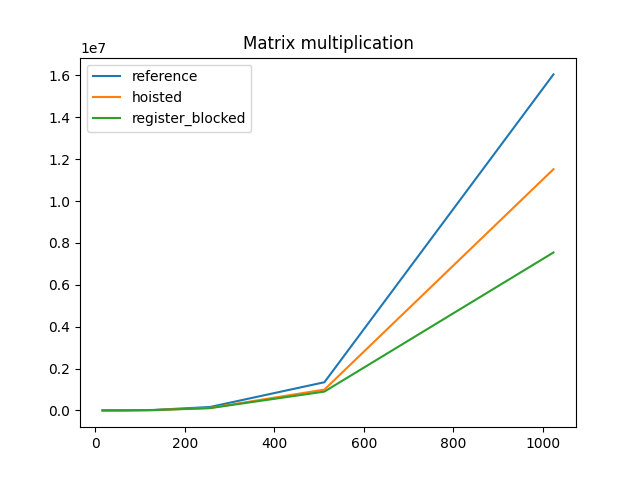
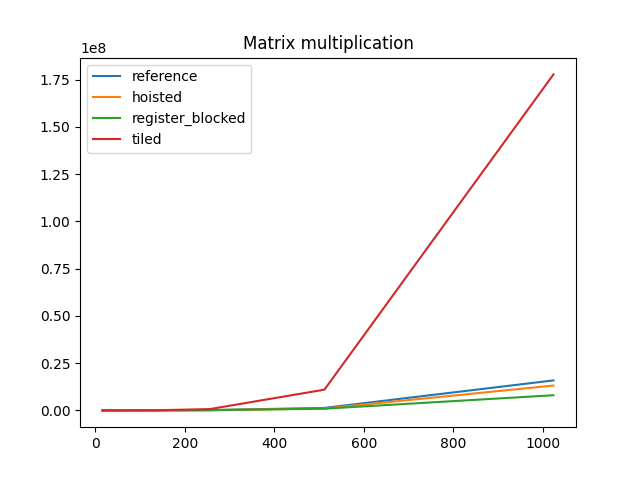
Sparce COO matrix

diff --git a/2_matrix/Matrix.hpp b/2_matrix/Matrix.hpp
@@ -5,6 +5,7 @@
 
 #include <stdexcept>
 #include <vector>
+#include <algorithm>
 
 template <class T> class Matrix {
  public:
@@ -14,13 +15,13 @@ template <class T> class Matrix {
    Matrix(size_t M, size_t N, T init)
        : num_rows_(M), num_cols_(N), storage_(num_rows_ * num_cols_, init) {}
 
-   T &operator()(size_t i, size_t j) { return storage_[i * num_cols_ + j]; }
-   const T &operator()(size_t i, size_t j) const {
+   inline T &operator()(size_t i, size_t j) { return storage_[i * num_cols_ + j]; }
+   inline const T &operator()(size_t i, size_t j) const {
       return storage_[i * num_cols_ + j];
    }
 
-   size_t num_rows() const { return num_rows_; }
-   size_t num_cols() const { return num_cols_; }
+   inline size_t num_rows() const { return num_rows_; }
+   inline size_t num_cols() const { return num_cols_; }
 
  private:
    size_t num_rows_;
@@ -91,6 +92,41 @@ void blocked_matmul(const Matrix<T> &a, const Matrix<T> &b, Matrix<T>& c) {
          c(i, j + 1) = s01;
          c(i + 1, j) = s10;
          c(i + 1, j + 1) = s11;
+      }
+   }
+}
+
+template <class T>
+void tiled_matmul(const Matrix<T> &a, const Matrix<T> &b, Matrix<T>& c) {
+   if (a.num_cols() != b.num_rows()) {
+      throw std::runtime_error(
+          "Matrix multiplication dimension mismatch.");
+   }
+   size_t M = a.num_rows();
+   size_t N = b.num_cols();
+   size_t K = a.num_cols();
+   size_t blocksize = 2ul;
+   for (size_t ii = 0; ii < M; ii += blocksize) {
+      for (size_t jj = 0; jj < N; jj += blocksize) {
+         for (size_t kk = 0; kk < K; kk += blocksize) {
+            for (size_t i = ii; i < ii + blocksize; i+=2) {
+               for (size_t j = jj; j < jj + blocksize; j+=2) {
+                  for (size_t k = 0; k < kk + blocksize; k++) {
+                     c(i, j) += a(i, k) * b(k, j);
+                     c(i, j+1) += a(i, k) * b(k, j+1);
+                     c(i+1,j) += a(i + 1, k) * b(k, j);
+                     c(i+1, j+1) += a(i + 1, k) * b(k, j + 1);
+                  }
+               }
+            }
+         }
+      }
+   }
+   for (size_t i = blocksize * (M/blocksize); i < M; i++) {
+      for (size_t j = blocksize* (N/blocksize); j < N; j++) {
+         for (size_t k = blocksize * (K/blocksize); k < K; k++) {
+            c(i,j) += a(i, k) * b(k, j);
+         }
       }
    }
 }

diff --git a/4_sparse/SparseMatrix.hpp b/4_sparse/SparseMatrix.hpp
@@ -1,0 +1,70 @@
+#ifndef CPP_HPC_SPARSE_MATRIX
+#define CPP_HPC_SPARSE_MATRIX
+
+#include "../1_vector/Vector.hpp"
+
+#include <ostream>
+#include <vector>
+
+template<class T>
+class COOMatrix{
+public:
+   COOMatrix(std::size_t M, std::size_t N) : num_rows_(M), num_cols_(N) {}
+
+   inline std::size_t num_rows() const {return num_rows_;}
+   inline std::size_t num_cols() const {return num_cols_;}
+
+   void insert(std::size_t i, std::size_t j, T value) {
+      row_indices_.push_back(i);
+      col_indices_.push_back(j);
+      storage_.push_back(value);
+   }
+
+   void matvec(const Vector<T>& x, Vector<T>& y) const {
+      for (std::size_t k = 0; k < y.num_rows(); k++) {
+         y(k) = T(0);
+      }
+      for (std::size_t k = 0; k < storage_.size(); k++) {
+         y(row_indices_[k]) += storage_[k] * x(col_indices_[k]);;
+      }
+   }
+
+   template<class Ty>
+   friend std::ostream& operator<<(std::ostream& os, const COOMatrix<Ty>&);
+private:
+   std::size_t num_rows_;
+   std::size_t num_cols_;
+   std::vector<std::size_t> row_indices_;
+   std::vector<std::size_t> col_indices_;
+   std::vector<T> storage_;
+};
+
+// Overload ostream << operator
+template<class T>
+std::ostream& operator<<(std::ostream& os, const COOMatrix<T>& x) {
+   if (std::is_same_v<T, float>) {
+      os << "COOMatrix<float>\n";
+   } else if (std::is_same_v<T, double>) {
+      os << "COOMatrix<double>\n";
+   } else {
+      throw
+         std::runtime_error("Unsupported type by print <<");
+   }
+   os << "[";
+   for (size_t i = 0; i < x.storage_.size(); i++) {
+      os << "(";
+      os << x.row_indices_[i];
+      os << ", ";
+      os << x.col_indices_[i];
+      os << ", ";
+      os << x.storage_[i];
+      os << ")";
+      if (i + 1 < x.storage_.size()) {
+         os << ", ";
+      }
+   }
+   os << "]";
+   return os;
+}
+
+#endif

diff --git a/1_vector/Vector.hpp b/1_vector/Vector.hpp
@@ -3,17 +3,21 @@
 
 #include <stdexcept>
 #include <vector>
+#include <ostream>
 
 template<class T>
 class Vector {
 public:
    Vector(std::size_t m) : num_rows_(m), storage_(num_rows_) {}
+   Vector(std::size_t m, T init) : num_rows_(m), storage_(num_rows_, init) {}
 
-   const T& operator()(std::size_t i) const {return storage_[i];}
-   T& operator()(std::size_t i) {return storage_[i];}
+   inline const T& operator()(std::size_t i) const {return storage_[i];}
+   inline T& operator()(std::size_t i) {return storage_[i];}
 
-   std::size_t num_rows() const {return num_rows_;}
+   inline std::size_t num_rows() const {return num_rows_;}
 
+   template<class Ty>
+   friend std::ostream& operator<<(std::ostream&, const Vector<Ty>&);
 private:
    std::size_t num_rows_;
    std::vector<T> storage_;
@@ -31,6 +35,28 @@ Vector<T> operator+(const Vector<T>& x, const Vector<T>& y) {
       z(i) = x(i) + y(i);
    }
    return z;
+}
+
+// Overload ostream << operator
+template<class T>
+std::ostream& operator<<(std::ostream& os, const Vector<T>& x) {
+   if (std::is_same_v<T, float>) {
+      os << "Vector<float>\n";
+   } else if (std::is_same_v<T, double>) {
+      os << "Vector<double>\n";
+   } else {
+      throw
+         std::runtime_error("Unsupported type by print <<");
+   }
+   os << "[";
+   for (size_t i = 0; i < x.num_rows_; i++) {
+      os << x.storage_[i];
+      if (i + 1 < x.num_rows_) {
+         os << ", ";
+      }
+   }
+   os << "]";
+   return os;
 }
 
 #endif

diff --git a/3_timer/TestTimer.cpp b/3_timer/TestTimer.cpp
@@ -27,12 +27,14 @@ int main() {
   if (!file.is_open()) {
     throw std::runtime_error("Error opening file");
   }
-  file << "size;reference;hoisted;register_blocked\n";
+  file << "size;reference;hoisted;register_blocked;tiled\n";
+  std::cout << "size reference hoisted register_blocked tiled\n";
   for (size_t N = 16; N <= 1024; N *= 2) {
-    double ref = benchmark(N, N, N, 10, reference_matmul<double>);
-    double hoisted = benchmark(N, N, N, 10, hoisted_matmul<double>);
-    double blocked = benchmark(N, N, N, 10, blocked_matmul<double>);
-    file << N << ";" << ref << ";" << hoisted << ";" << blocked << "\n";
-    std::cout << N << " " << ref << " " << hoisted << " " << blocked << "\n";
+    double ref = benchmark(N, N, N, 3, reference_matmul<double>);
+    double hoisted = benchmark(N, N, N, 3, hoisted_matmul<double>);
+    double blocked = benchmark(N, N, N, 3, blocked_matmul<double>);
+    double tiled = benchmark(N, N, N, 3, tiled_matmul<double>);
+    file << N << ";" << ref << ";" << hoisted << ";" << blocked << ";" << tiled << "\n";
+    std::cout << N << " " << ref << " " << hoisted << " " << blocked << " " << tiled << "\n";
   }
 }

diff --git a/4_sparse/TestSparseMatrix.cpp b/4_sparse/TestSparseMatrix.cpp
@@ -1,0 +1,29 @@
+#include "SparseMatrix.hpp"
+
+#include <iostream>
+
+int main() {
+   using Matrix = COOMatrix<double>;
+   Matrix a(6, 6);
+   a.insert(0, 0, 3.);
+   a.insert(0, 3, 8.);
+   a.insert(1, 1, 1.);
+   a.insert(1, 2, 4.);
+   a.insert(1, 4, 6.);
+   a.insert(2, 5, 7.);
+   a.insert(3, 0, 5.);
+   a.insert(3, 2, 4.);
+   a.insert(3, 3, 1.);
+   a.insert(4, 1, 3.);
+   a.insert(4, 4, 5.);
+   a.insert(5, 5, 9.);
+
+   using Vec = Vector<double>;
+   Vec x(6, 1.);
+   Vec y(6);
+
+   a.matvec(x, y);
+
+   std::cout << a << std::endl;
+   std::cout << y << std::endl;
+}

diff --git a/3_timer/plot.py b/3_timer/plot.py
@@ -6,6 +6,7 @@ data = pd.read_csv("bench.csv", sep = ";")
 plt.plot(data["size"], data["reference"], label = "reference")
 plt.plot(data["size"], data["hoisted"], label = "hoisted")
 plt.plot(data["size"], data["register_blocked"], label = "register_blocked")
+plt.plot(data["size"], data["tiled"], label = "tiled")
 plt.title("Matrix multiplication")
 plt.legend()
 plt.savefig("bench.png")
